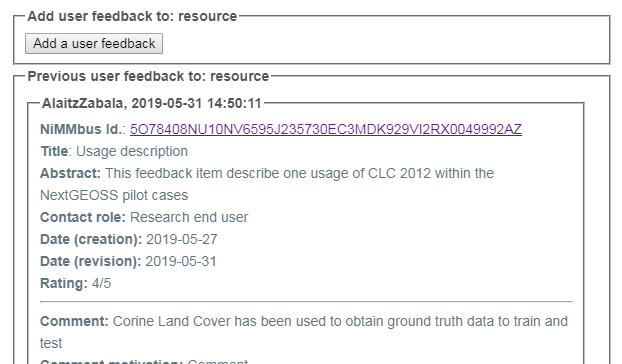
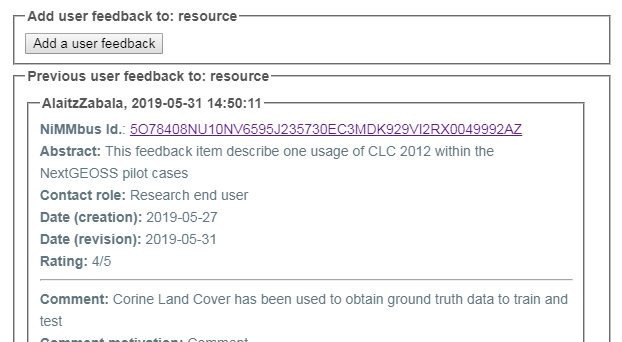
widget styles title-abstract documentation

diff --git a/GUF_integration/guf_css.md b/GUF_integration/guf_css.md
@@ -26,7 +26,7 @@ The next table shows the original (in guf.css) and custom (in test_widget_custom
 
 
 ### span.guf_key
-This class is used to describe the style for the names (titles) of the feedback item elements at first level such as "Title", "Abstract", "Purpose", etc and applies to all of them at the same time.
+This class is used to describe the style for the names (titles) of the feedback item elements at first level such as "Abstract", "Purpose", etc and applies to all of them at the same time.
 
 By default is defined as "font-weight: bold".
 
@@ -93,7 +93,6 @@ The list of classes, hierarchically orderer to understand relations (i.e. which 
 * <u>div.guf_add_fb</u>: division for the first fieldset that includes the button to Add new feedback items.
 * <u>div.guf_report</u>: division for the second fieldset that includes the Previous user feedback items, as well as the button to Edit your own.
  * <u>div.guf_fb_id</u>: division for the NiMMbus Id. of the feedback item
- * <u>div.guf_title</u>: division for the Title of the feedback item
  * <u>div.guf_abstract</u>: division for the Abstract of the feedback item
  * <u>div.guf_purpose</u>: division for the Purpose of the feedback item
  * <u>div.guf_contact_role</u>: division for the role of the contact of the feedback item
@@ -141,14 +140,14 @@ A first example of use is to <u>hide a certain class</u>, for example the class 
 | Custom | div.guf_date <br>{<br>	display: none;<br>} | <img src="img/guf_hidden_key.png"/>
 
 
-A second typical example is to change the <u>format of a certain class</u>, for example to change the font of the title to display it in bold and in another color.
+A second typical example is to change the <u>format of a certain class</u>, for example to change the font of the abstract to display it in bold and in another color.
 
 The next table shows the original (in guf.css) and custom class definition, as well as an example of a how the result is displayed, including not only the changes described in this table (i.e. font color change for names of the feedback elements) but also the ones described in the previous sections.
 
 | Style                                   | Code                                                                                                     | Example        |
 |------------------------------------|----------------------------------------------------------------------------------------------------------|----------------|
-| Original              | div.guf_title{}| <img src="img/guf_report_original.png"/> |
-| Custom | div.guf_title.user<br>{<br>color: GoldenRod;<br>font-weight: bold;<br>} | <img src="img/guf_hidden_key_and_title_format.png"/>
+| Original              | div.guf_abstract{}| <img src="img/guf_report_original.png"/> |
+| Custom | div.guf_abstract.user<br>{<br>color: GoldenRod;<br>font-weight: bold;<br>} | <img src="img/guf_hidden_key_and_abstract_format.png"/>
 
 Last example is a general one using <u>many of the options together</u>, modifying the style for all the classes in the general section and some of classes related to specific content section. In fact this example compares the  [test_widget.htm](../client_js/test_widget.htm) and the [test_widget_custom.htm](../client_js/test_widget_custom.htm) examples. Next table shows the same content with the two widget test pages:
 
